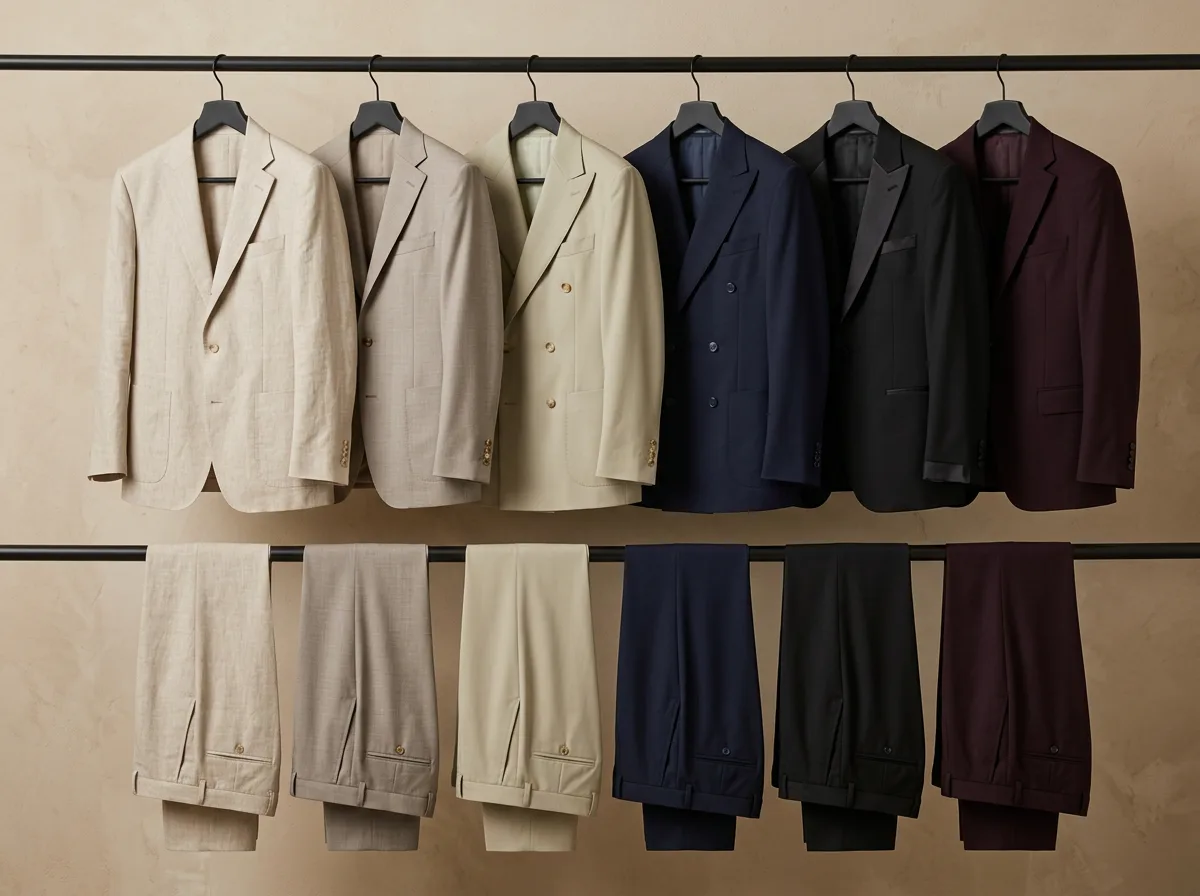
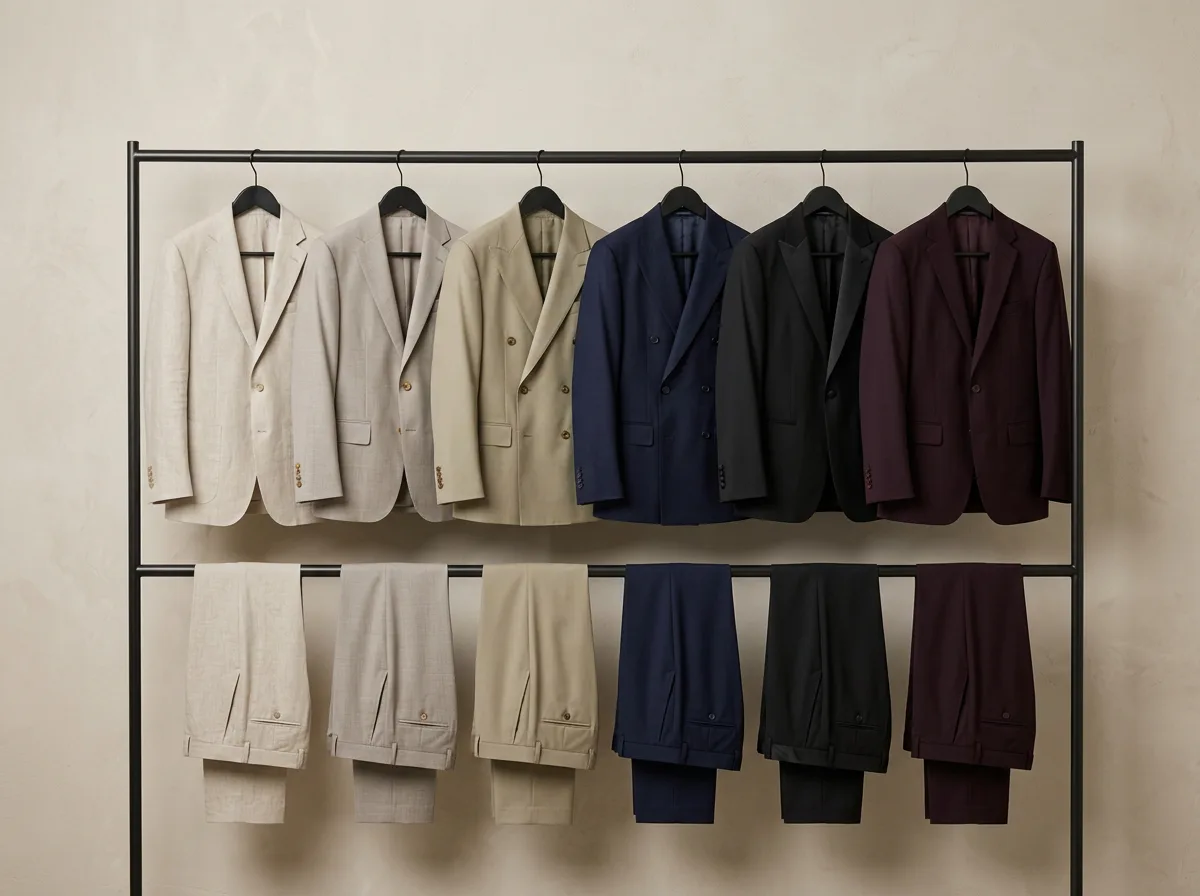
Add files via upload

diff --git a/wedding.html b/wedding.html
@@ -610,8 +610,10 @@
       }
       .start__tabs { flex-direction: column; }
       .start__photo {
-        display: block; min-height: 340px;
-        aspect-ratio: unset; height: 100%;
+        display: block;
+        aspect-ratio: 4/3;
+        height: auto;
+        align-self: start;
       }
       .start__photo img { object-position: center 15%; }
 